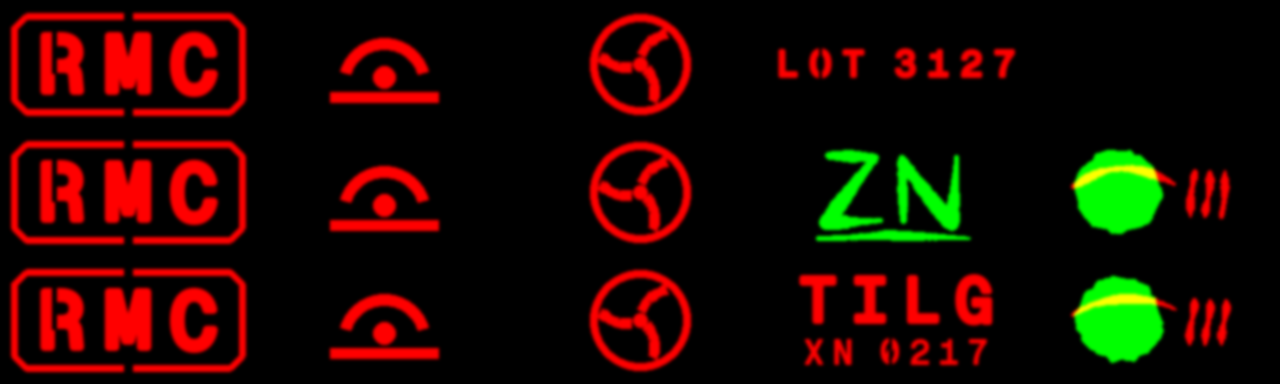
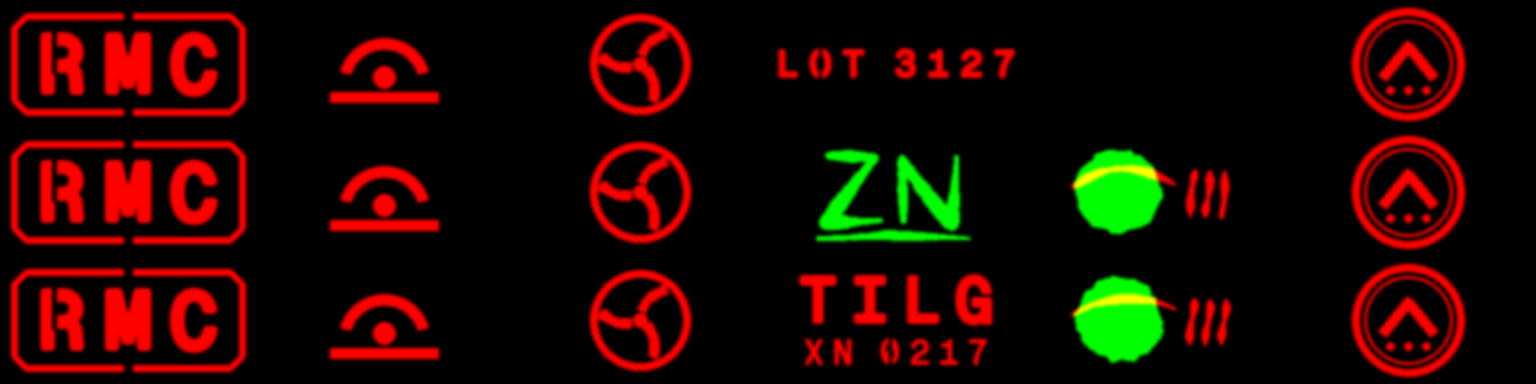
Marks after lore session 3: a member state's seal beside the contractor's tag on the ruin; the deep crate is TILG's
Early ruins show member-state and corporate markings that don't match. The
art direction maps each mark onto session 3 and lists what's still a
placeholder.

Claude-Session: https://claude.ai/code/session_014ejbFUPd96RP7pNZcsAber

diff --git a/game/look/marks.py b/game/look/marks.py
@@ -13,7 +13,7 @@ import random
 from PIL import Image, ImageDraw, ImageFilter, ImageFont
 
 CELL = (256, 128)
-COLS = 5
+COLS = 6
 ROWS = 3
 HERE = os.path.dirname(os.path.abspath(__file__))
 FONT = os.path.join(HERE, "..", "..", "assets", "fonts", "GeistMono-Regular.ttf")
@@ -143,7 +143,18 @@ def patch(ink, daub, rng):
         brush(ink, [(170 + k * 16, 44), (166 + k * 16, 88)], 8, rng, wobble=1.0)
 
 
-MARKS = [contractor, shield_maker, wind_maker, consignment, skimmer_crew]
+def member_state(ink, daub, rng):
+    """A member state's seal, from before the UG stood as one: rings round a chevron."""
+    w, h = CELL
+    cx, cy = w / 2, h / 2
+    ink.ellipse([cx - 56, cy - 56, cx + 56, cy + 56], outline=255, width=8)
+    ink.ellipse([cx - 44, cy - 44, cx + 44, cy + 44], outline=255, width=3)
+    ink.line([(cx - 26, cy + 14), (cx, cy - 18), (cx + 26, cy + 14)], fill=255, width=11, joint="curve")
+    for dx in (-18, 0, 18):
+        ink.ellipse([cx + dx - 4, cy + 22, cx + dx + 4, cy + 30], fill=255)
+
+
+MARKS = [contractor, shield_maker, wind_maker, consignment, skimmer_crew, member_state]
 # The marks that change from era to era take the row and give the drawing.
 BY_ERA = (consignment, skimmer_crew)
 

diff --git a/docs/art-direction.md b/docs/art-direction.md
@@ -174,46 +174,54 @@ pieces, such as rope and louvres: the project draws without antialiasing.
 
 ## Maker's marks
 
-*2026-10-16. Loose, not canon. The names are the lore's working names, and every design is a
-rough placeholder.*
+*2026-10-16, mapped onto [session 3](lore-session-2026-10-16.md) the same day. Loose, not
+canon: the names are the lore's, and every design is a rough placeholder.*
 
-Five rough marks on a few things: a contractor's tag, two makers' signs, a crate's label
-and a crew's patch. Each is painted where its lore says it belongs, so a mark means
-something wherever it appears. They're stencilled or stamped on with the paint, so the same
-wear chips, scours and dusts them: a deep find's mark is crisp, and a surface one's is
+Six rough marks on a few things: a contractor's tag, a member state's seal, two makers' signs,
+a crate's label and a crew's patch. Each is painted where its lore says it belongs, so a mark
+means something wherever it appears. They're stencilled or stamped on with the paint, so the
+same wear chips, scours and dusts them: a deep find's mark is crisp, and a surface one's is
 ragged and flaked in patches. They read close up; at 5 m they're a smudge.
 
 | Mark | What it stands for | Carried by |
 |---|---|---|
-| **Contractor's tag:** "RMC" on a notched plate | The Remote Moon Contractor, who built the hub's infrastructure and fitted what was bought in ([part 1 §4](lore-session-2026-10-14.md#4-whos-there-the-entity-stack), [part 2 §1](lore-session-2026-10-14-part-2.md#1-the-oem-tier-who-actually-makes-things)) | The condenser; a found shield's housing; the ruin, beside each stencilled 07 |
+| **Contractor's tag:** "RMC" on a notched plate | A corporate builder of the colonial era: the Remote Moon Contractor, who built the hub's infrastructure and fitted what was bought in ([part 1 §4](lore-session-2026-10-14.md#4-whos-there-the-entity-stack), [part 2 §1](lore-session-2026-10-14-part-2.md#1-the-oem-tier-who-actually-makes-things)) | The condenser; a found shield's housing; the ruin, beside each stencilled 07 |
+| **Member state's seal:** rings round a chevron, in another hand's paint | One of the governments the UG federated, before it stood as one: early ruins show member-state and corporate markings that don't match ([session 3](lore-research.md#factions-agreed-session-3)) | The ruin, beside the contractor's tag |
 | **Shield maker's sign:** a bubble on its ground, the emitter beneath | The main shield OEM, the common make; it's unnamed, and "Acme Shield Corporation" is the lore's own placeholder ([part 2 §3](lore-session-2026-10-14-part-2.md#3-shields)) | The light shield you start with, on its body; a found shield, small, on its emitter cap |
 | **Wind maker's sign:** three vanes in a ring | Wind's maker, a different one from solar's ([part 2 §4](lore-session-2026-10-14-part-2.md#4-power)) | The turbine |
-| **Consignment label,** by era | The box says who ordered it; the parts inside say who made them ([part 2 §1](lore-session-2026-10-14-part-2.md#1-the-oem-tier-who-actually-makes-things)) | The crate frame's two ring sides |
+| **Consignment label,** by era | The box says who ordered it; the parts inside say who made them ([part 2 §1](lore-session-2026-10-14-part-2.md#1-the-oem-tier-who-actually-makes-things)). The deep one is TILG's, the shipping line that registered Zan as a temporary transshipment hub ([session 3](lore-research.md#factions-agreed-session-3)) | The crate frame's two ring sides |
 | **Skimmer crew's patch,** painted by hand: the giant, a dive across it, a tally | The hoverboard as skimmer-culture personal gear, not official issue ([lore research, question 11](lore-research.md#13-open-questions-for-hunter)) | A found hoverboard's tail, which is what shows when it's found nose-down; a board of your own is new and plain |
 
-**Why these.** The marks go where the lore names a maker or issuer. The contractor's tag ties
-the oldest layer together: its build-out is the overbuilt colonial tech ([part 1
-§6](lore-session-2026-10-14.md#6-history-runs-backwards-in-the-ground)), so the same tag on
-the ruin and on the devices found in the sand lets the player link them. The two shields show
-issuer against maker. The light shield was bought new, so it carries only its maker's sign. A
-found one carries the tag of the contractor who fitted it, with the maker's sign small on the
-core inside. The crate is the lore's own example of the box and its label.
+**Why these.** The marks go where the lore names a maker or issuer. The ruin's wall shows
+session 3's early markings that don't match: a corporate builder's tag and number beside a
+member state's seal, in two hands' paint. The same contractor's tag on the devices found in the
+sand lets the player tie them to the buildings. Its build-out is the overbuilt colonial tech
+([part 1 §6](lore-session-2026-10-14.md#6-history-runs-backwards-in-the-ground)), and corporate tech lies deepest
+([session 3](lore-research.md#the-surface-today-agreed-session-3)). The two shields show issuer
+against maker. The light shield was bought new, so it carries only its maker's sign. A found
+one carries the tag of the contractor who fitted it, with the maker's sign small on the core
+inside. The crate is the lore's own example of the box and its label.
 
 **Left blank on purpose.** Batteries and the other commodity parts carry no mark ([part 2
-§4](lore-session-2026-10-14-part-2.md#4-power)). So do the survival kit and the charger, since
-the lore doesn't say who made them, and inventing an issuer would be making canon. The
-planter (ag-tech issue) and the solar panels (a big commodity OEM) are the next candidates,
-left out to keep this to a few.
+§4](lore-session-2026-10-14-part-2.md#4-power)). So do the survival kit and the charger, since the lore doesn't say who made
+them, and inventing an issuer would be making canon. The next candidates were left out to keep
+this to a few:
+
+- the planter, as ag-tech issue;
+- the solar panels, from a big commodity OEM;
+- Standard Freight's plain, severe stamp, for when hull wreckage or war-era materiel is in the
+  game.
 
 **How era shows.** The atlas has a row per era: a recent make (yours), the surface and the
 deep. A found device takes its layer's row. So far the crate's label is the mark that changes
 most from row to row:
 
-- **Deep:** "TILG" over "XN 0217", the prime operator's consignment stencil, crisp, routed by
-  the United Government's sector code. The X is old and official ([lore research
-  §8](lore-research.md#names-the-ug-catalog-and-the-moon)).
-- **Surface:** "ZN" daubed back on by hand in rust red: a copy from memory, with the X said and
-  written as a Z, late and colloquial.
+- **Deep:** "TILG" over "XN 0217", TILG's consignment stencil, crisp, routed by the system's
+  official code. The X form is old and official
+  ([names](lore-research.md#hierarchy-and-the-name-decay-agreed-session-3)).
+- **Surface:** "ZN" daubed back on by hand in rust red: a copy from memory, on the way from XN
+  to Zan, with the X said and written as a Z. It's late, a Bronze Age form, and session 3 dates
+  ruins by which form appears.
 - **Yours:** a plain batch number, "LOT 3127", for a recent, cheap make.
 
 The crew's patch has only two states: a found board carries it, and a board of your own is
@@ -222,15 +230,25 @@ plain, since nobody has painted it yet.
 Wear does the rest, from the same amount that wears the paint: ragged edges, patches flaked
 away, scour on the windward side and sand on what faces up.
 
+**The strata.** Session 3 has three strata: corporate tech deepest, skimmer-era salvage in the
+middle and Bronze Age forged goods near the surface. The game has two layers so far. The deep
+one carries the corporate and colonial marks (the contractor, the seal, TILG) and also the
+crew's patch, since boards are found deep. Once a middle layer exists, the patch belongs
+there. Military gear carries no mark yet, since there's none in the game. Session 3 makes it
+extremely rare and brought only by deserters, and its marks would be the war era's
+standardised, severe ones.
+
 **Placeholders.** Every design and ink colour is a placeholder. So are these:
 
-- "RMC" and "TILG" are working names, and TILG's acronym is still TBD in the lore.
+- "RMC," the Remote Moon Contractor, is part 1's working name. Session 3 names no builder.
+- The member state is unnamed, and so is its seal.
+- The shield maker and the wind maker are unnamed.
 - In "XN 0217", only XN comes from the lore; the number is invented. The moon's own
-  designation, XN-118-7, stays off crates, since each of its names should surface about once.
-- "ZN" is an invented example of the X-to-Z drift on something that isn't a name.
+  designation, XN-118-7, stays off crates.
+- "ZN" is an invented form on the lore's path from XN to Zan.
 - "LOT 3127" and the patch's design are invented too.
 
-**How it's built.** It's one atlas, `game/look/marks.png` (five columns by three rows, 1280 ×
+**How it's built.** It's one atlas, `game/look/marks.png` (six columns by three rows, 1536 ×
 384), drawn by `game/look/marks.py` (Python 3 with Pillow, lettered in the repo's Geist Mono).
 Red is each mark's own ink (dark or pale), and green a hand-mixed daub. `Paint.Pieces.stamp()`
 paints a mark on the next piece's faces that turn its way, and the marks travel as UVs on the
